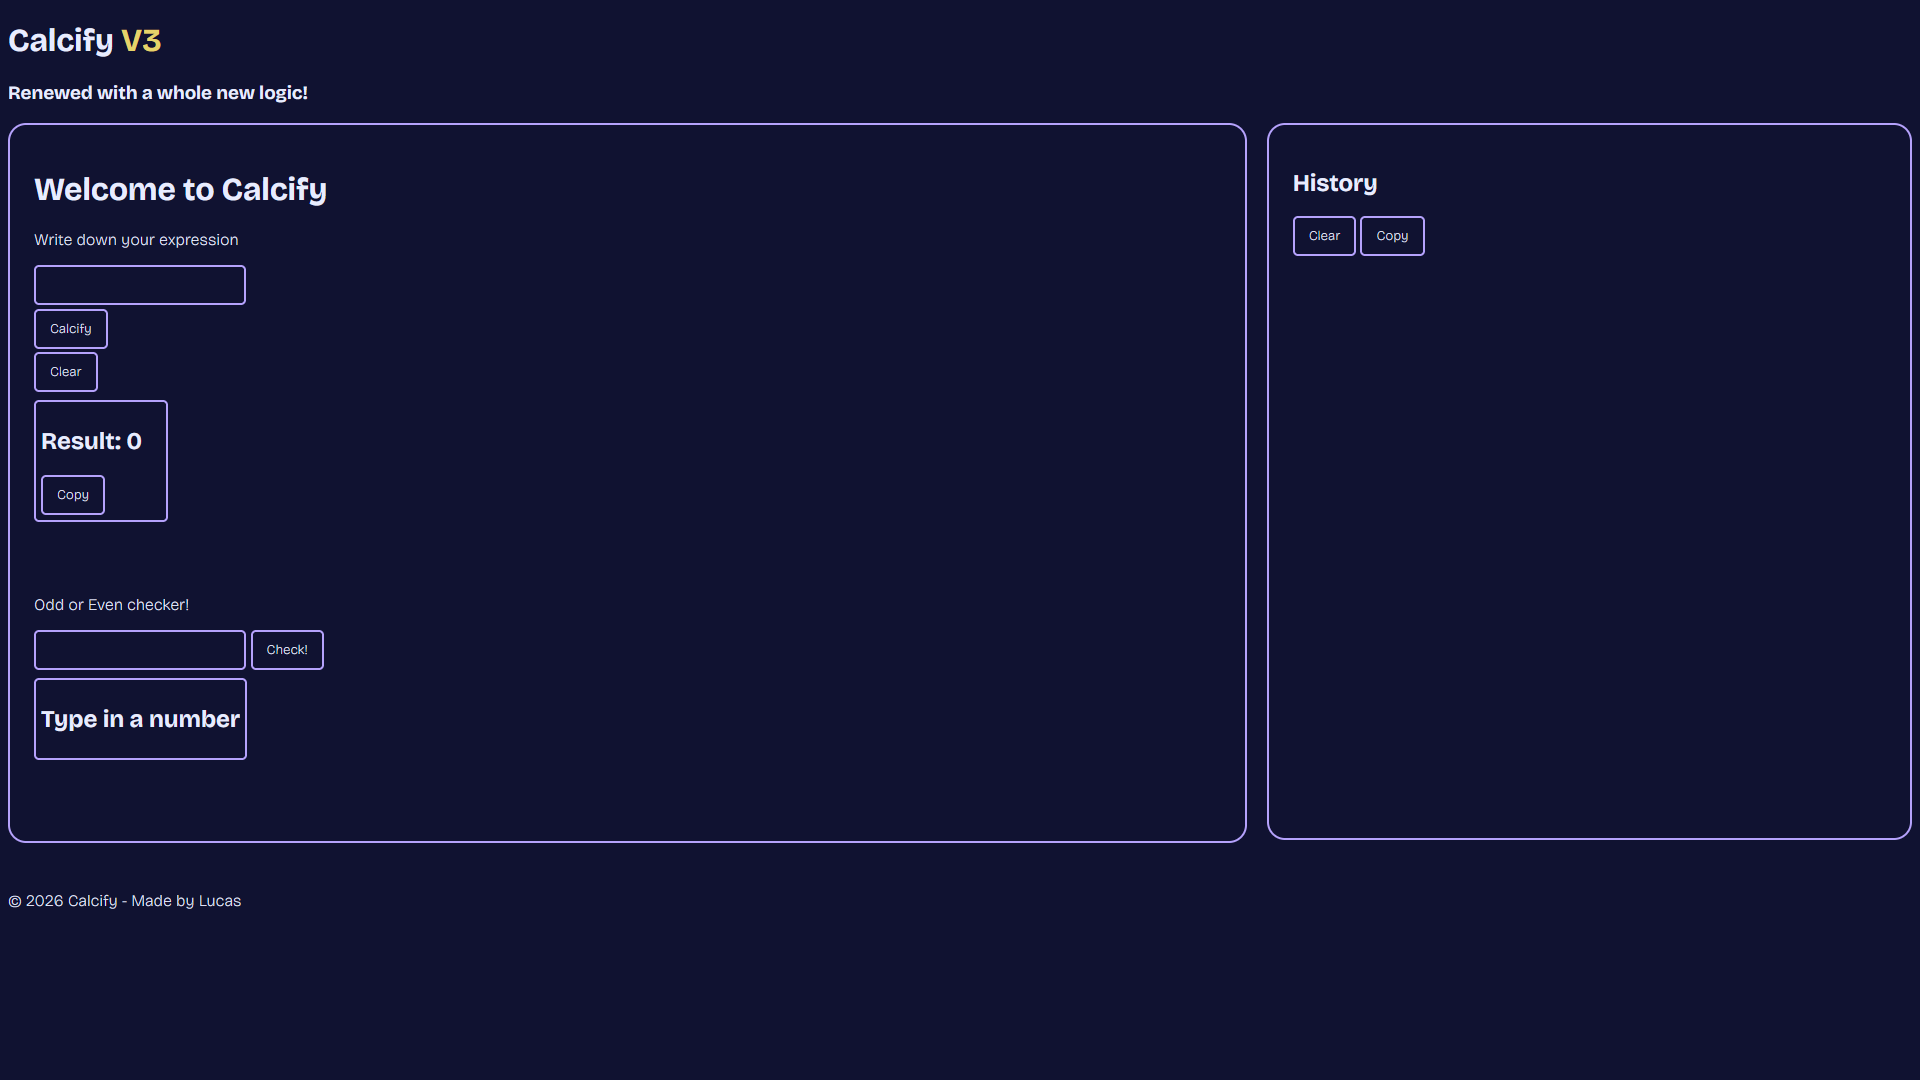
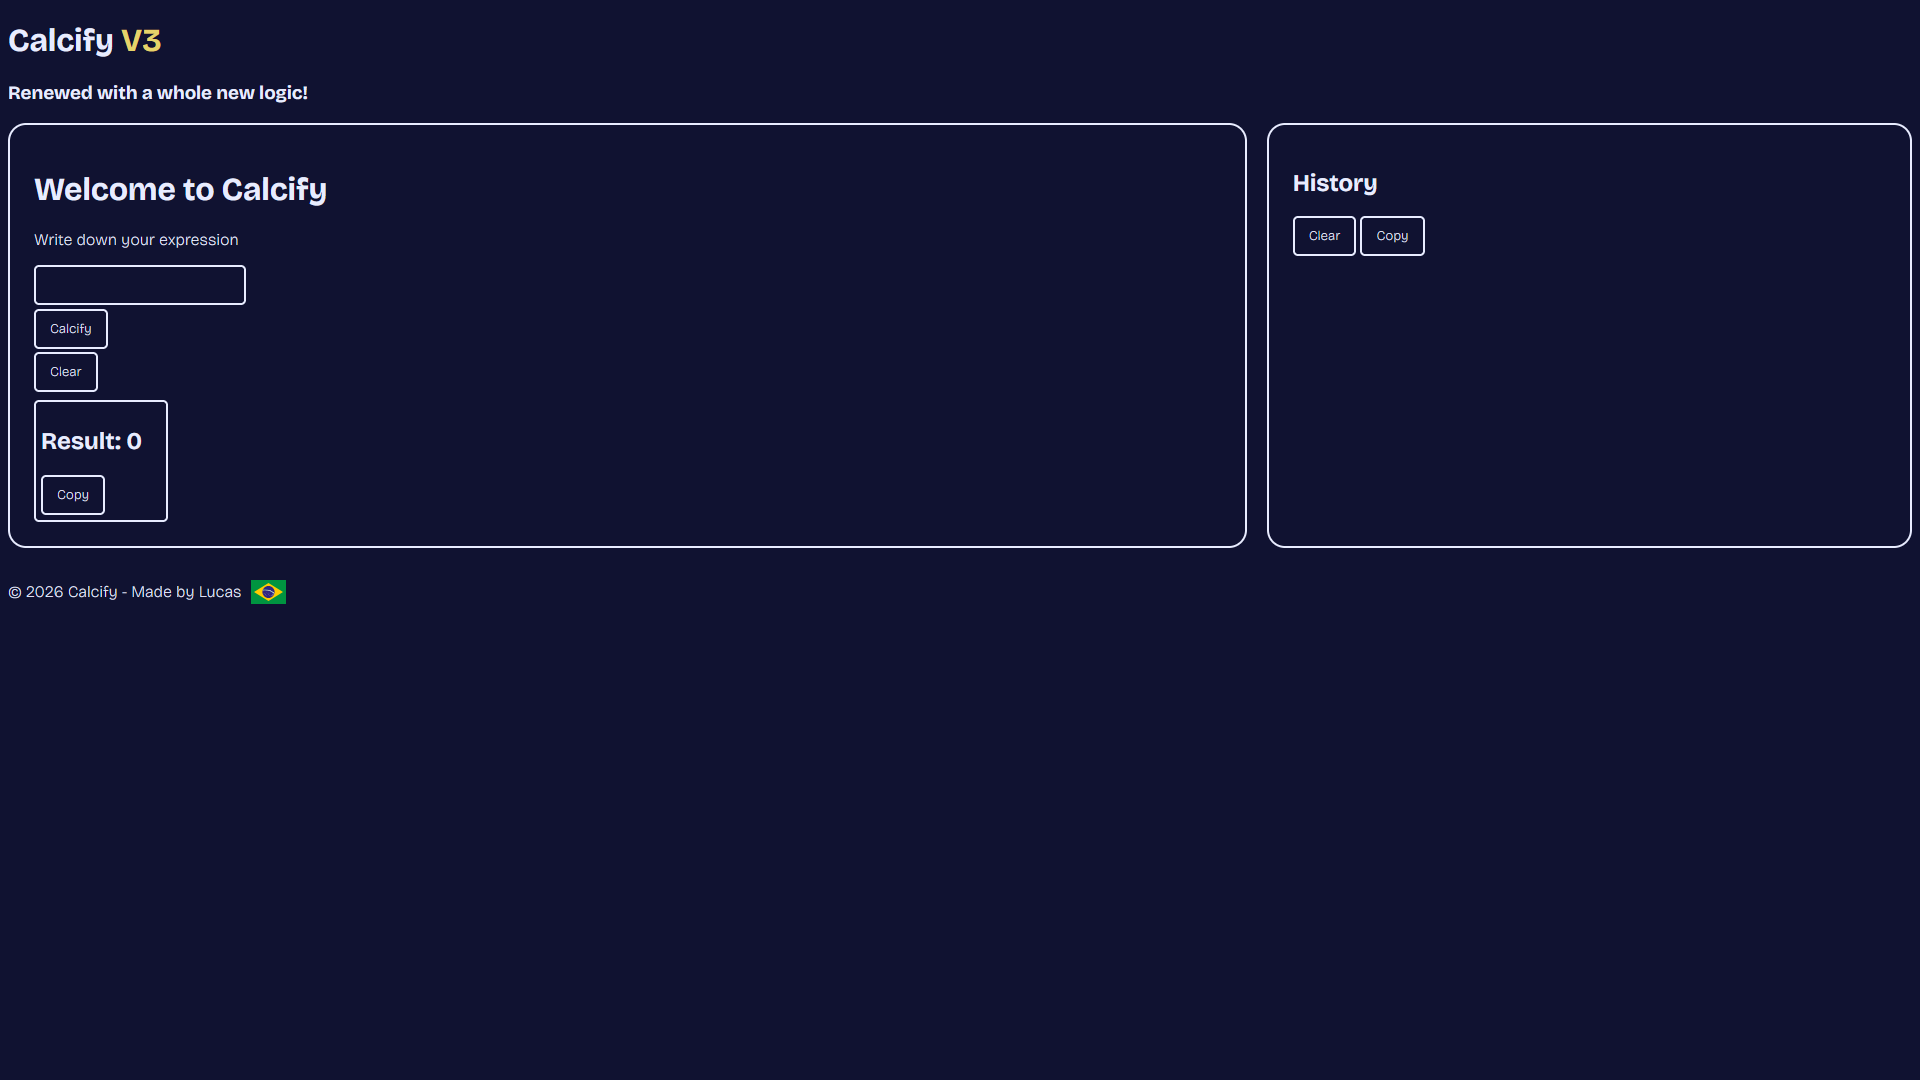
Added better readme to fast tool's

diff --git a/README.md b/README.md
@@ -18,14 +18,25 @@ Uses Bootstrap for the icons and some other styling.
 
 ## How to use
 
-Open the first index or open the website ![Here!](https://wirum.github.io/Fast-Tools/)
+Open the first index or open the website [Here!](https://wirum.github.io/Fast-Tools/)
 
 ## Screenshots
 
 ### Current
 
-![Current FastTools]()
-![CalcifyV3 screenshot](assets/images/Current.png)
+![Current FastTools](assets/images/Current.png)
+
+### Current Calcify
+
+![CalcifyV3 screenshot](tools/calcify/assets/images/Current.png)
+
+### Current Odd or Even
+
+![Odd or Even screenshot](assets/Odd/Current.png)
+
+### Current Chrono
+
+![Odd or Even screenshot](assets/Chrono/Current1.png)
 
 ## License
 
